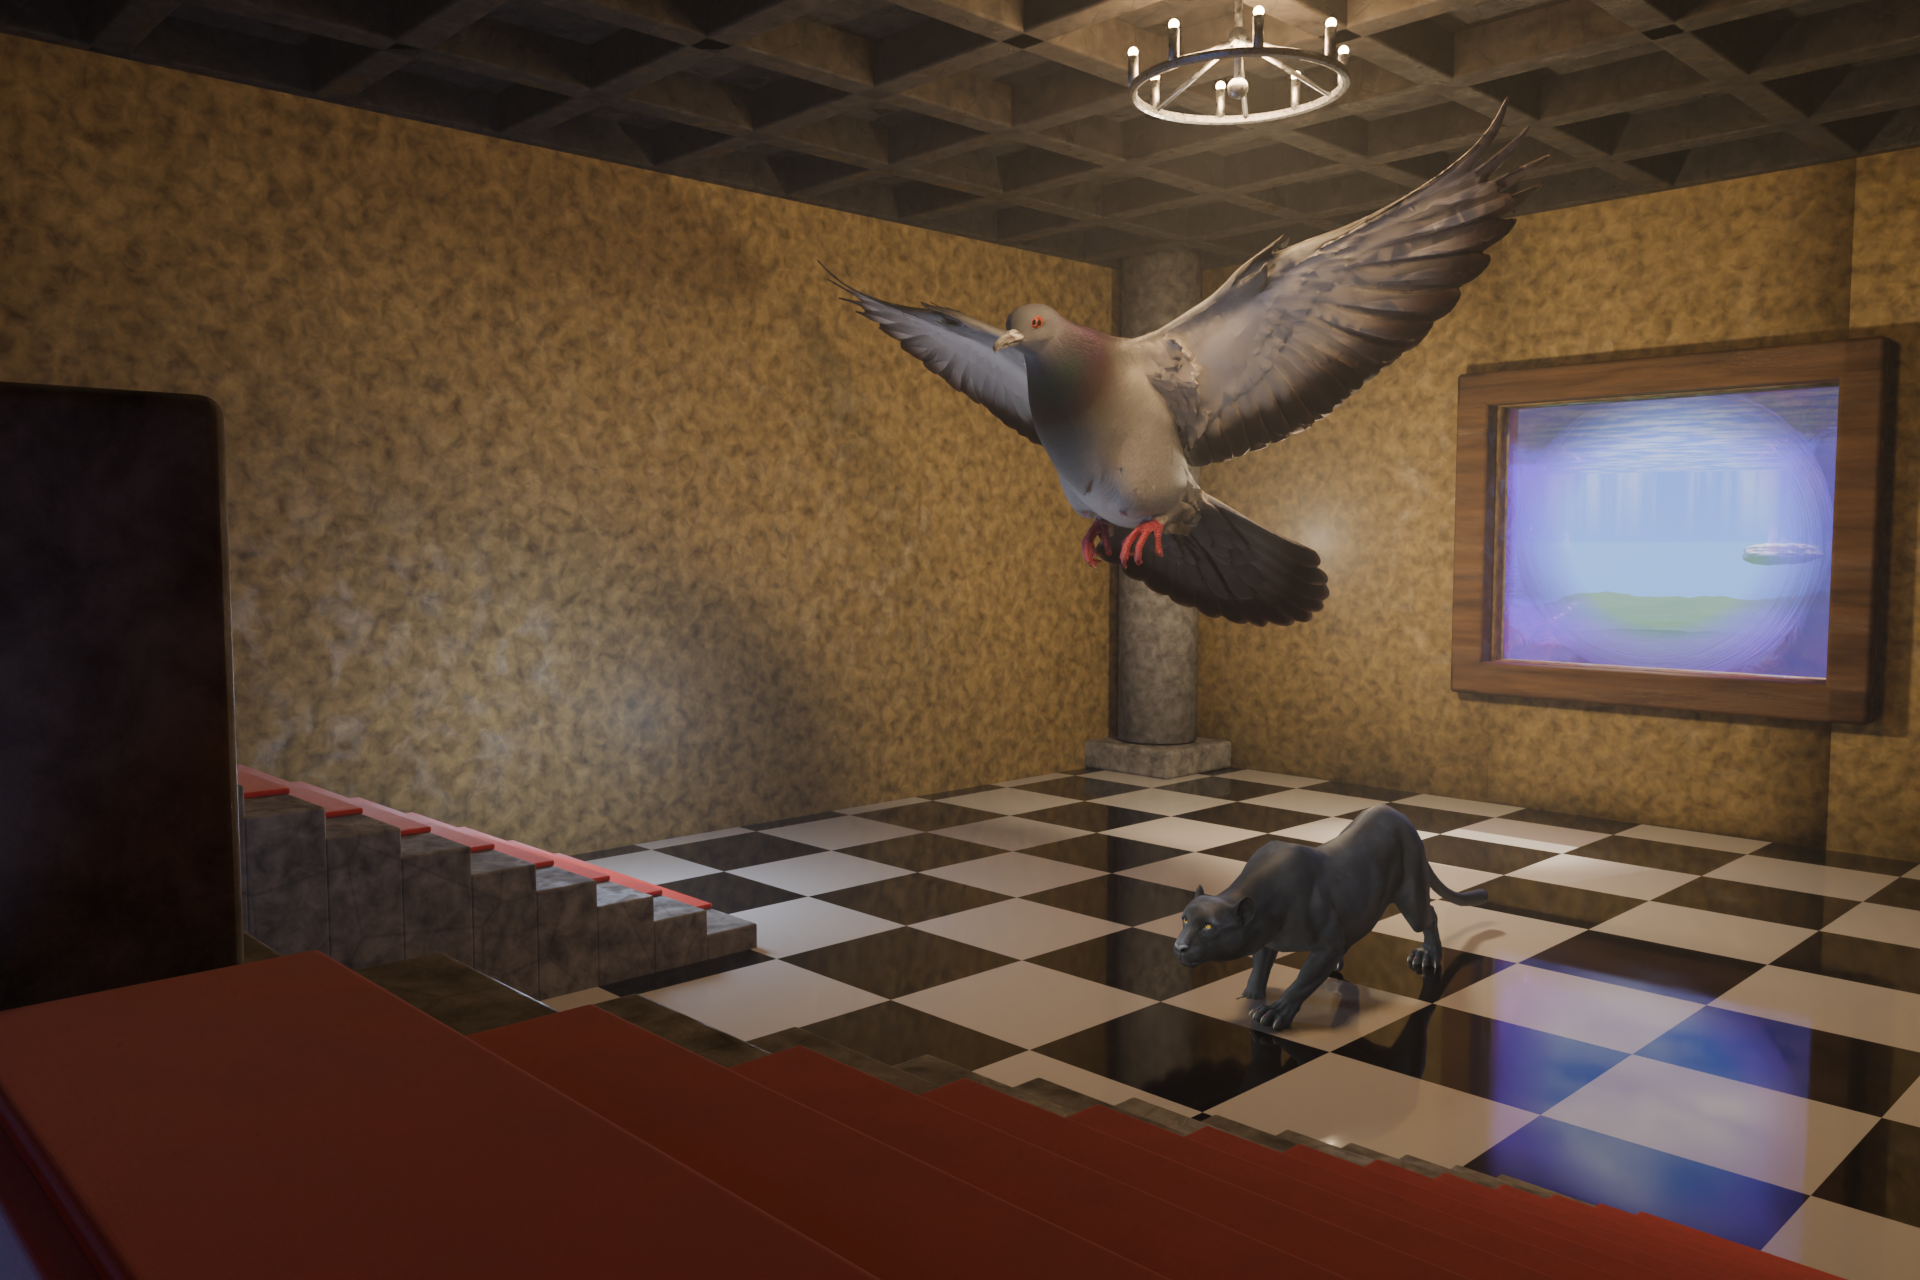
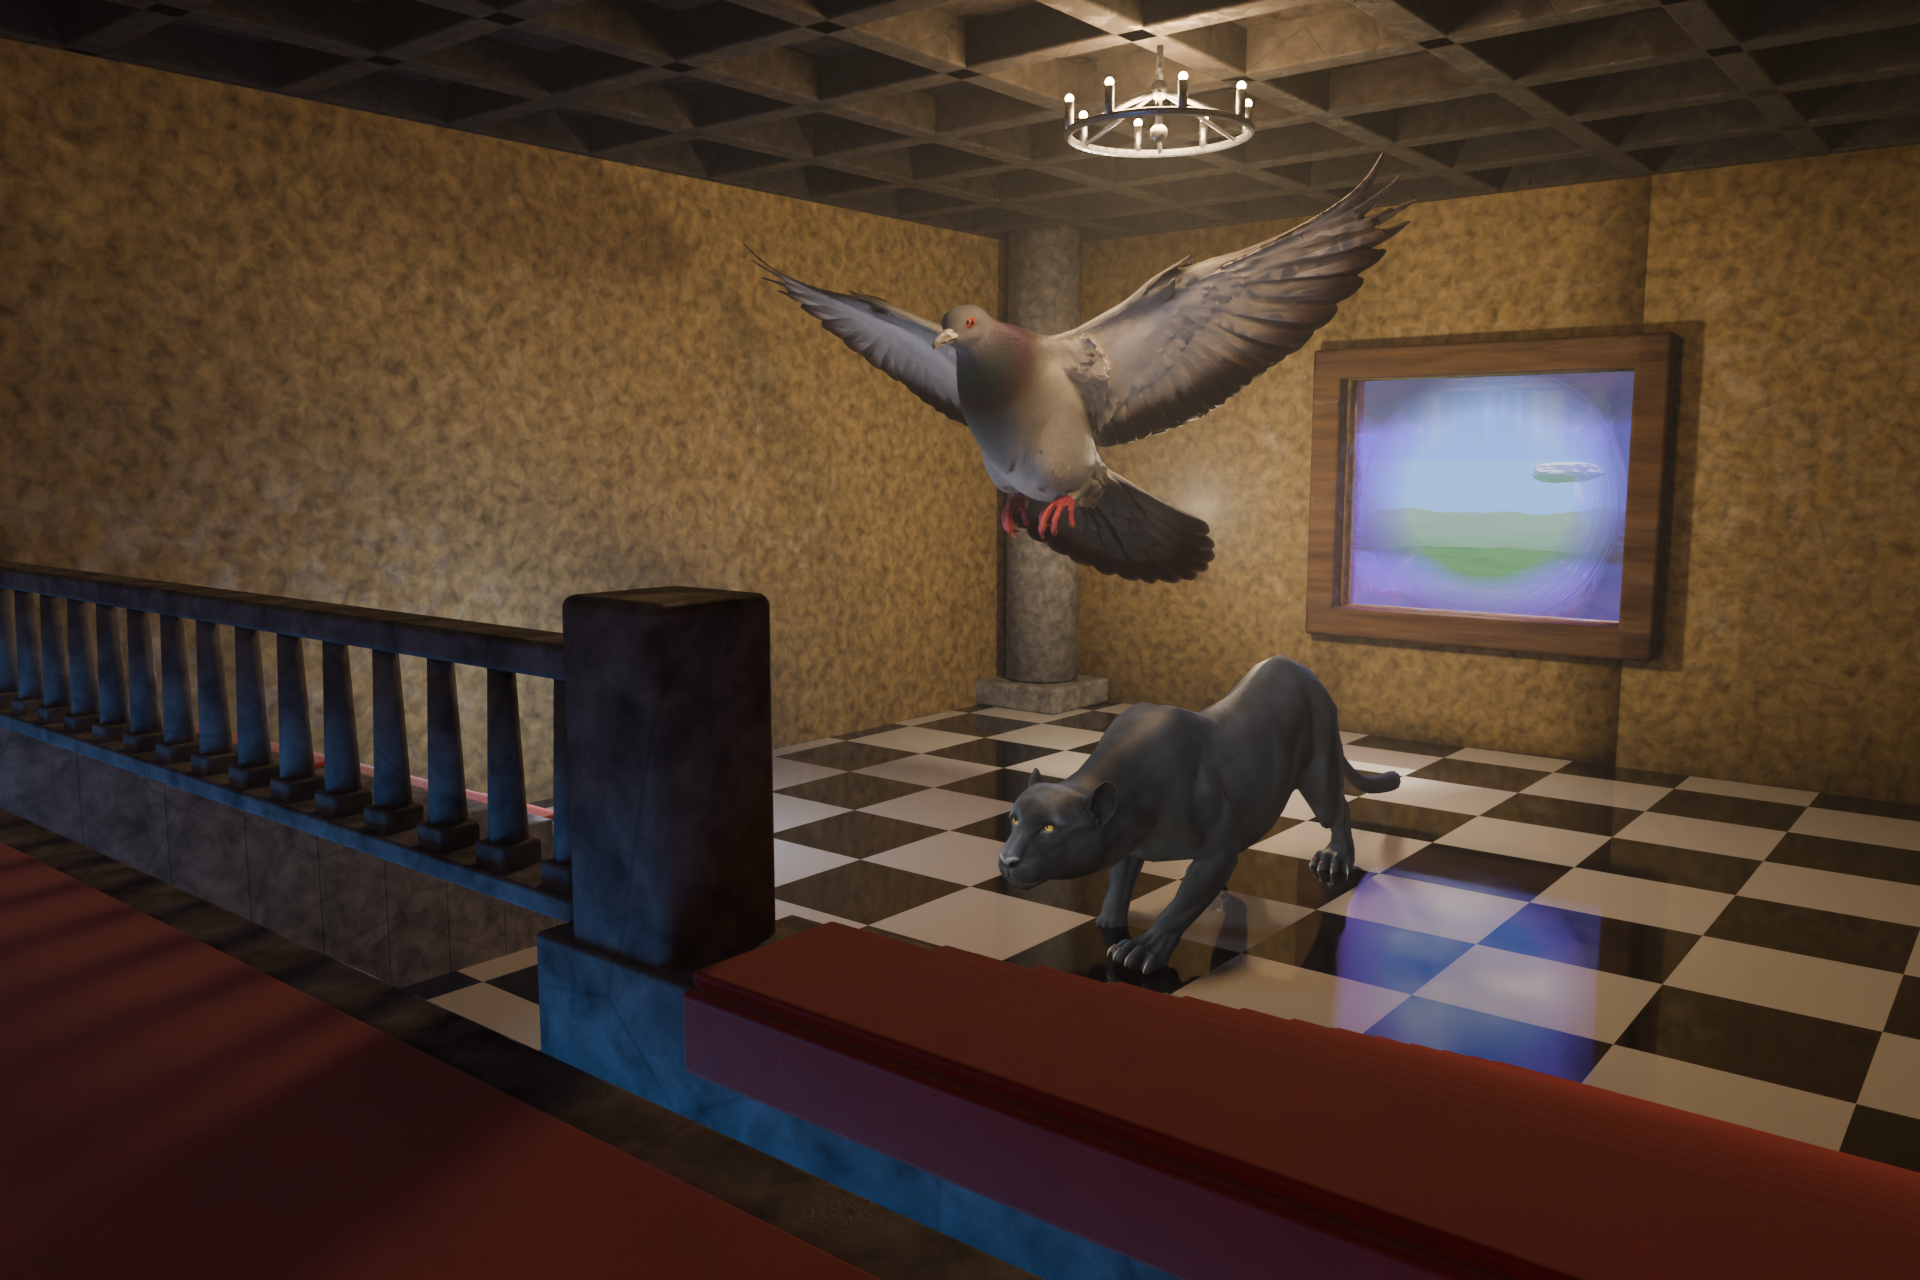
Over the rail, not level with it
The cat is 9 m nose to tail. At that size it is roughly three metres at the
shoulder, which puts it in the same register as an eleven-metre pigeon --
both of them wrong in the same direction, which is what stops either reading
as a mistake.

The camera went back onto the landing and up, and up is the part that
mattered. Standing level with the rail all that showed of it was the end
post, because a balustrade seen edge-on from its own height is one silhouette
and nothing else. From 700 mm above it the balusters run across the bottom
left as a row, the flight is still visible below them, and the room reads
past all of it -- so the rail became a foreground the shot looks over rather
than an object beside the shot.

The main view is re-rendered for the larger cat, where it now reads clearly
through the balustrade without competing with the bird.

diff --git a/art/blender/scenes.py b/art/blender/scenes.py
@@ -2523,7 +2523,7 @@ def painted_hall(path, mood="noon", view="balcony"):
     # the lens. Their paths cross at about fifty degrees. Two things moving
     # the same way in one picture read as one event; two things crossing read
     # as two, which is the whole reason for having both.
-    borrowed("panther", (1.0, 13.6, 0.02), 5.5,
+    borrowed("panther", (1.0, 13.6, 0.02), 9.0,
              rotation=(0.0, 0.0, math.radians(-25.0)), frame=247,
              name="Panther")
 
@@ -2626,7 +2626,13 @@ def painted_hall(path, mood="noon", view="balcony"):
         # without bending the room. From the top they close to about sixty
         # and both fit: measured, the rail's end lands 32 degrees off axis
         # against a 35-degree half frame, which puts it at the left edge.
-        look.camera((8.35, 0.60, 4.55), (-3.5, 12.0, 3.40), lens=26)
+        #
+        # Then back onto the landing and up, so the rail is something the
+        # lens looks *over* rather than past. Standing level with it, all
+        # that shows is the end post; from 700mm above it the balusters
+        # run across the bottom of the frame and the flight is still
+        # below them.
+        look.camera((8.70, -1.90, 5.35), (-3.2, 12.8, 2.90), lens=26)
     else:
         look.camera((0.0, -7.6, 6.55), (0.0, DEEP, 3.55), lens=30)
     look.view_transform("AgX", look="High Contrast",
